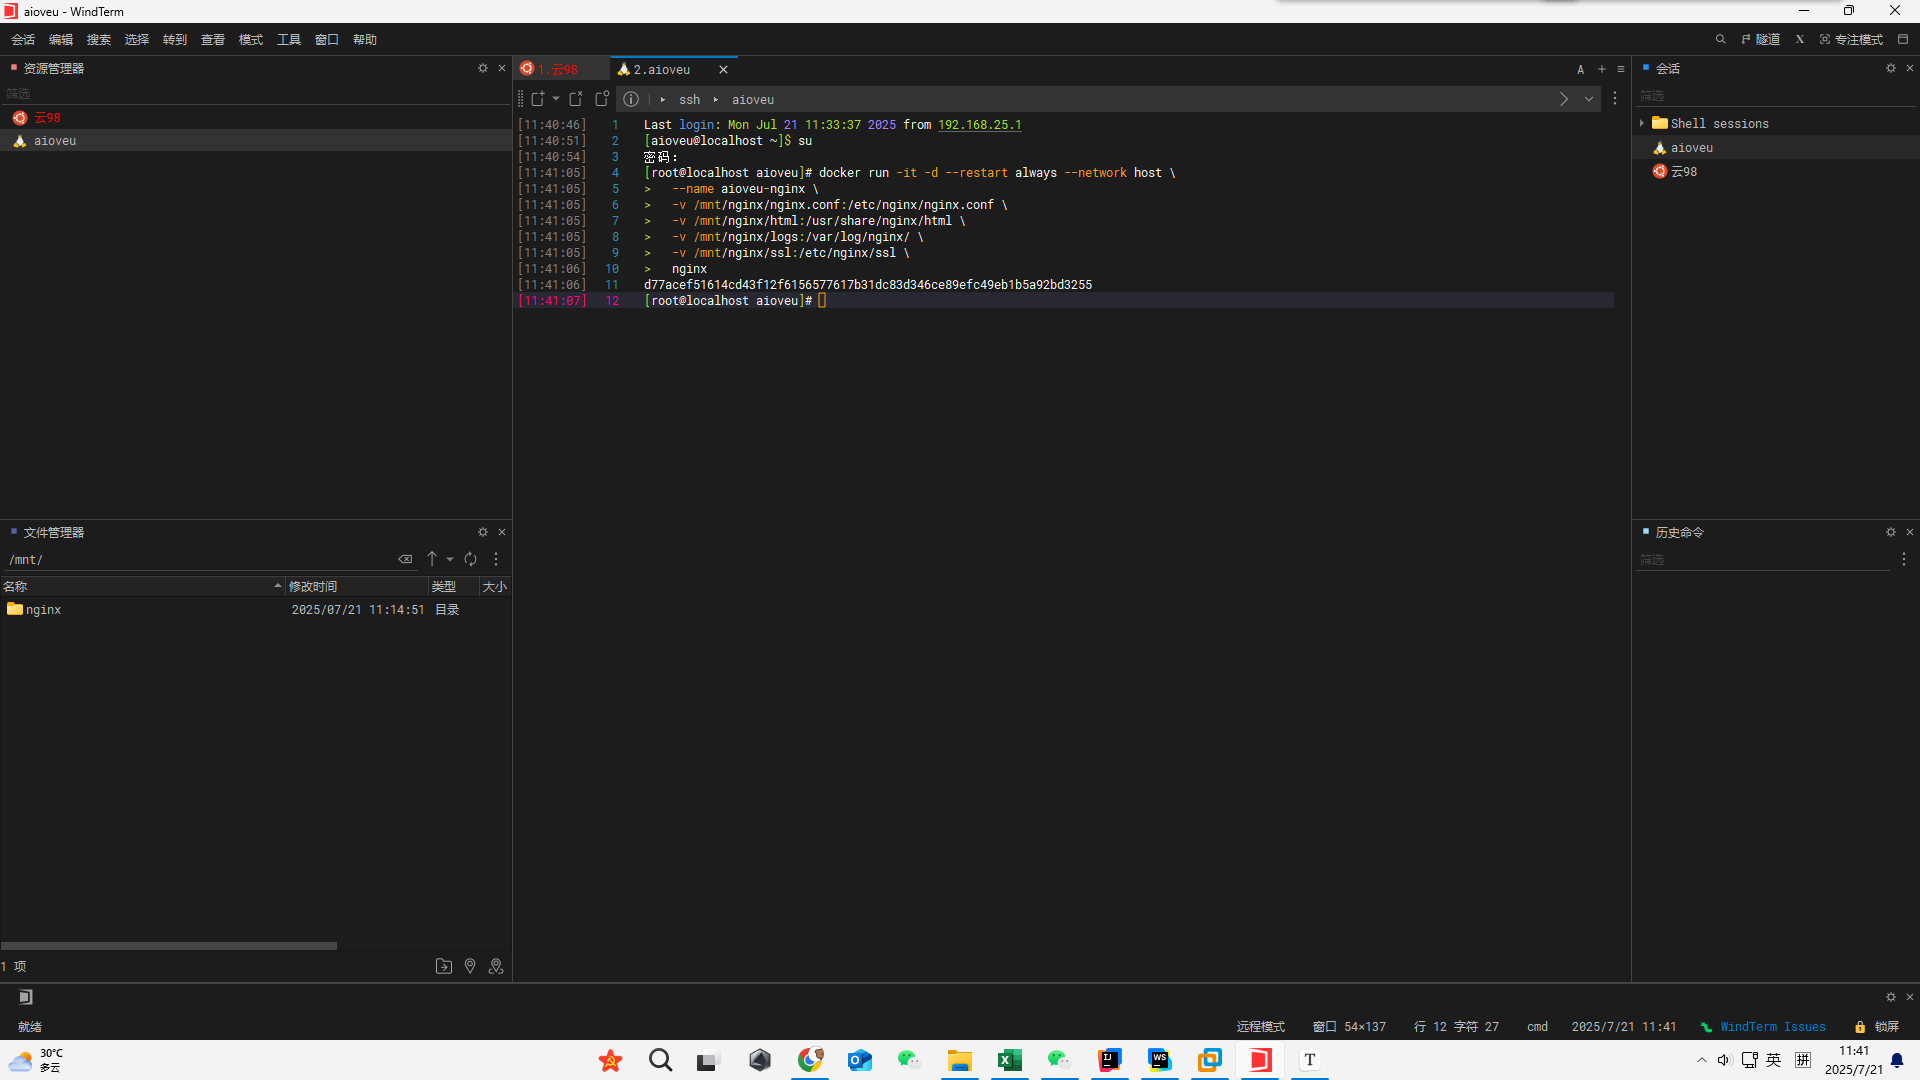
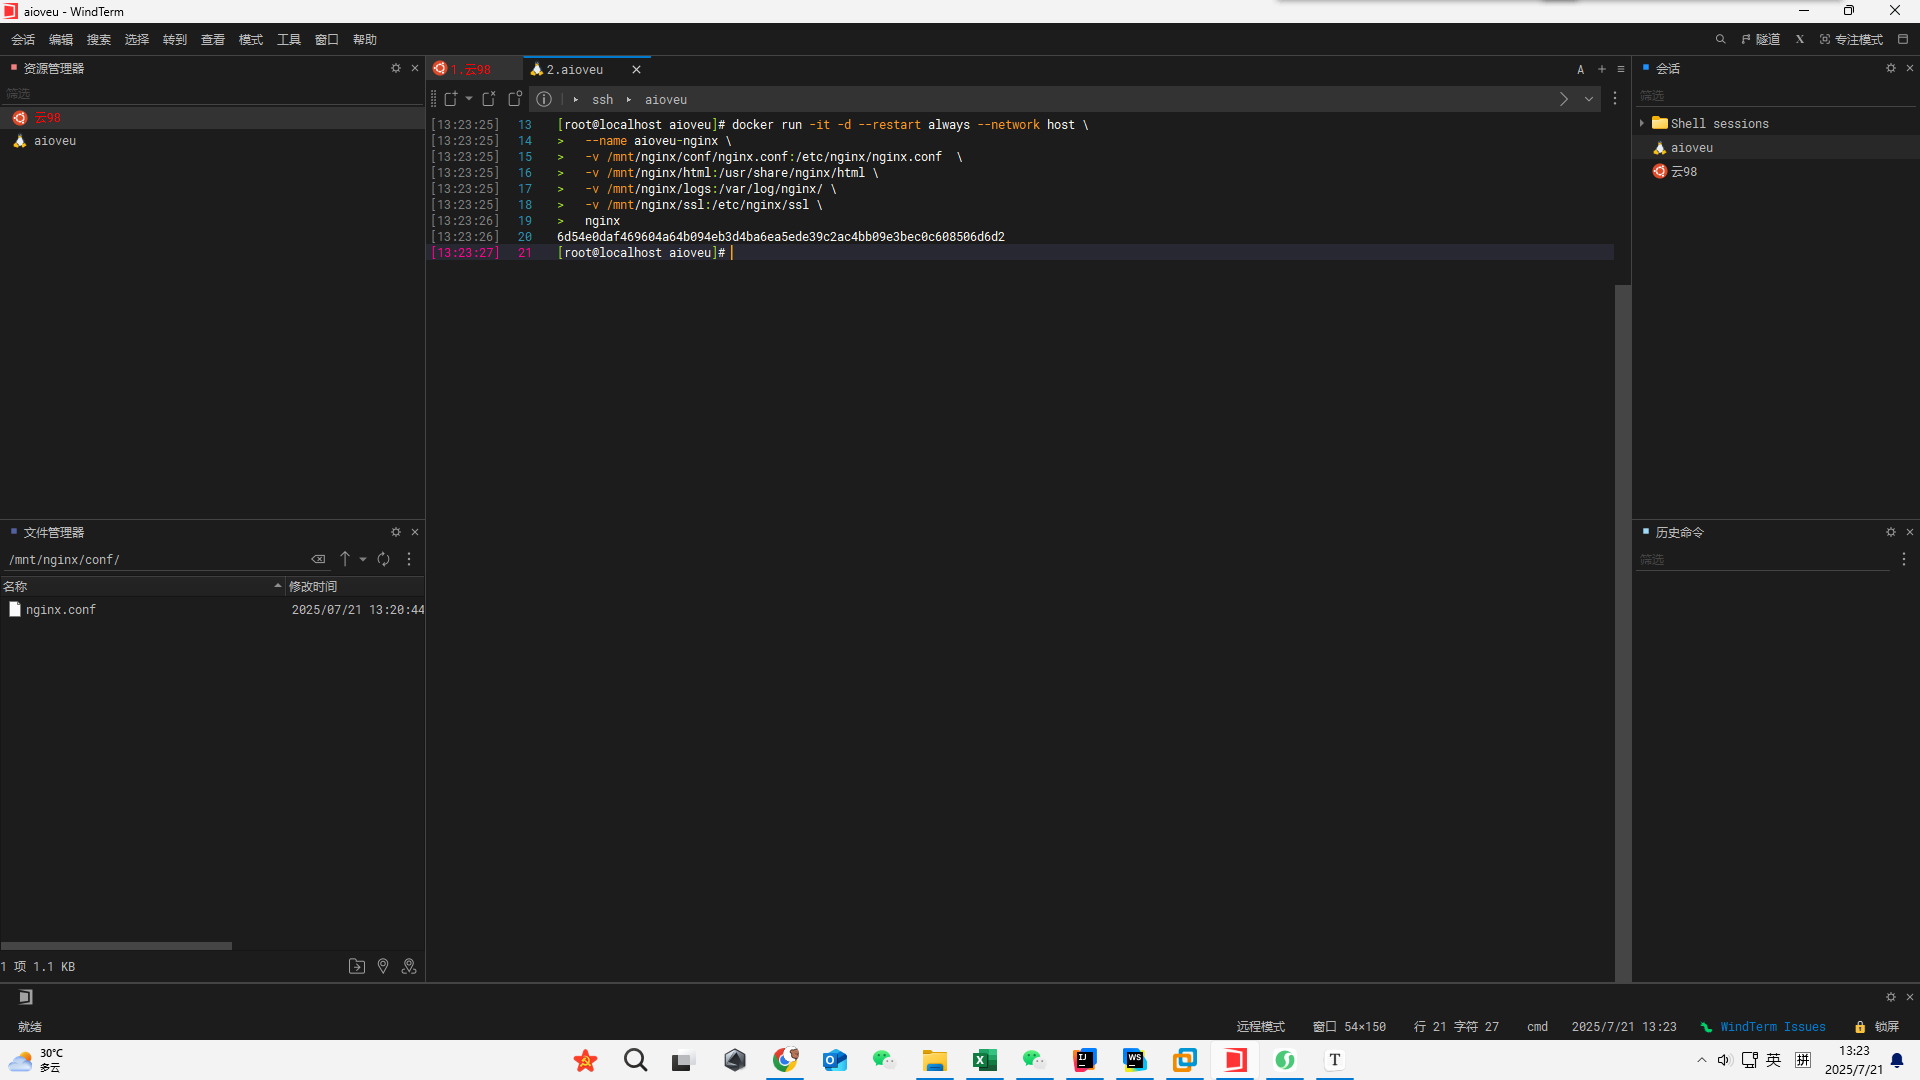
【Docker安装和配置Nginx】5.挂载自定义配置文件nginx.conf【1.2】

diff --git a/Docker 安装和配置 Nginx 详细图文教程/5. 启动 Nginx 容器.md b/Docker 安装和配置 Nginx 详细图文教程/5. 启动 Nginx 容器.md
@@ -11,7 +11,7 @@
 ```
 docker run -it -d --restart always --network host \
   --name aioveu-nginx \
-  -v /mnt/nginx/nginx.conf:/etc/nginx/nginx.conf \
+  -v /mnt/nginx/conf/nginx.conf:/etc/nginx/nginx.conf  \
   -v /mnt/nginx/html:/usr/share/nginx/html \
   -v /mnt/nginx/logs:/var/log/nginx/ \
   -v /mnt/nginx/ssl:/etc/nginx/ssl \
@@ -22,19 +22,21 @@ docker run -it -d --restart always --network host \
 
 
 
-| **参数**                                    | **功能说明**   |
-| ------------------------------------------- | -------------- |
-| **`--network host`**                        | 网络模式       |
-| **`--name nginx`**                          | 容器命名       |
-| **`-v [宿主机路径]:[容器路径]`**            | 数据卷挂载     |
-| /mnt/nginx/nginx.conf:/etc/nginx/nginx.conf | 挂载主配置文件 |
-| /mnt/nginx/html:/usr/share/nginx/html       | 挂载网站文件   |
-| /mnt/nginx/logs:/var/log/nginx/             | 持久化存储日志 |
-| /mnt/nginx/ssl:/etc/nginx/ssl               | 挂载SSL证书    |
+| **参数**                                         | **功能说明**   |
+| ------------------------------------------------ | -------------- |
+| **`--network host`**                             | 网络模式       |
+| **`--name nginx`**                               | 容器命名       |
+| **`-v [宿主机路径]:[容器路径]`**                 | 数据卷挂载     |
+| /mnt/nginx/conf/nginx.conf:/etc/nginx/nginx.conf | 挂载主配置文件 |
+| /mnt/nginx/html:/usr/share/nginx/html            | 挂载网站文件   |
+| /mnt/nginx/logs:/var/log/nginx/                  | 持久化存储日志 |
+| /mnt/nginx/ssl:/etc/nginx/ssl                    | 挂载SSL证书    |
 
 
 
 ![](F:\Coding\Github\aioveu-vue3-element-admin-doc\Docker 安装和配置 Nginx 详细图文教程\5.1.png)
+
+
 
 
 
